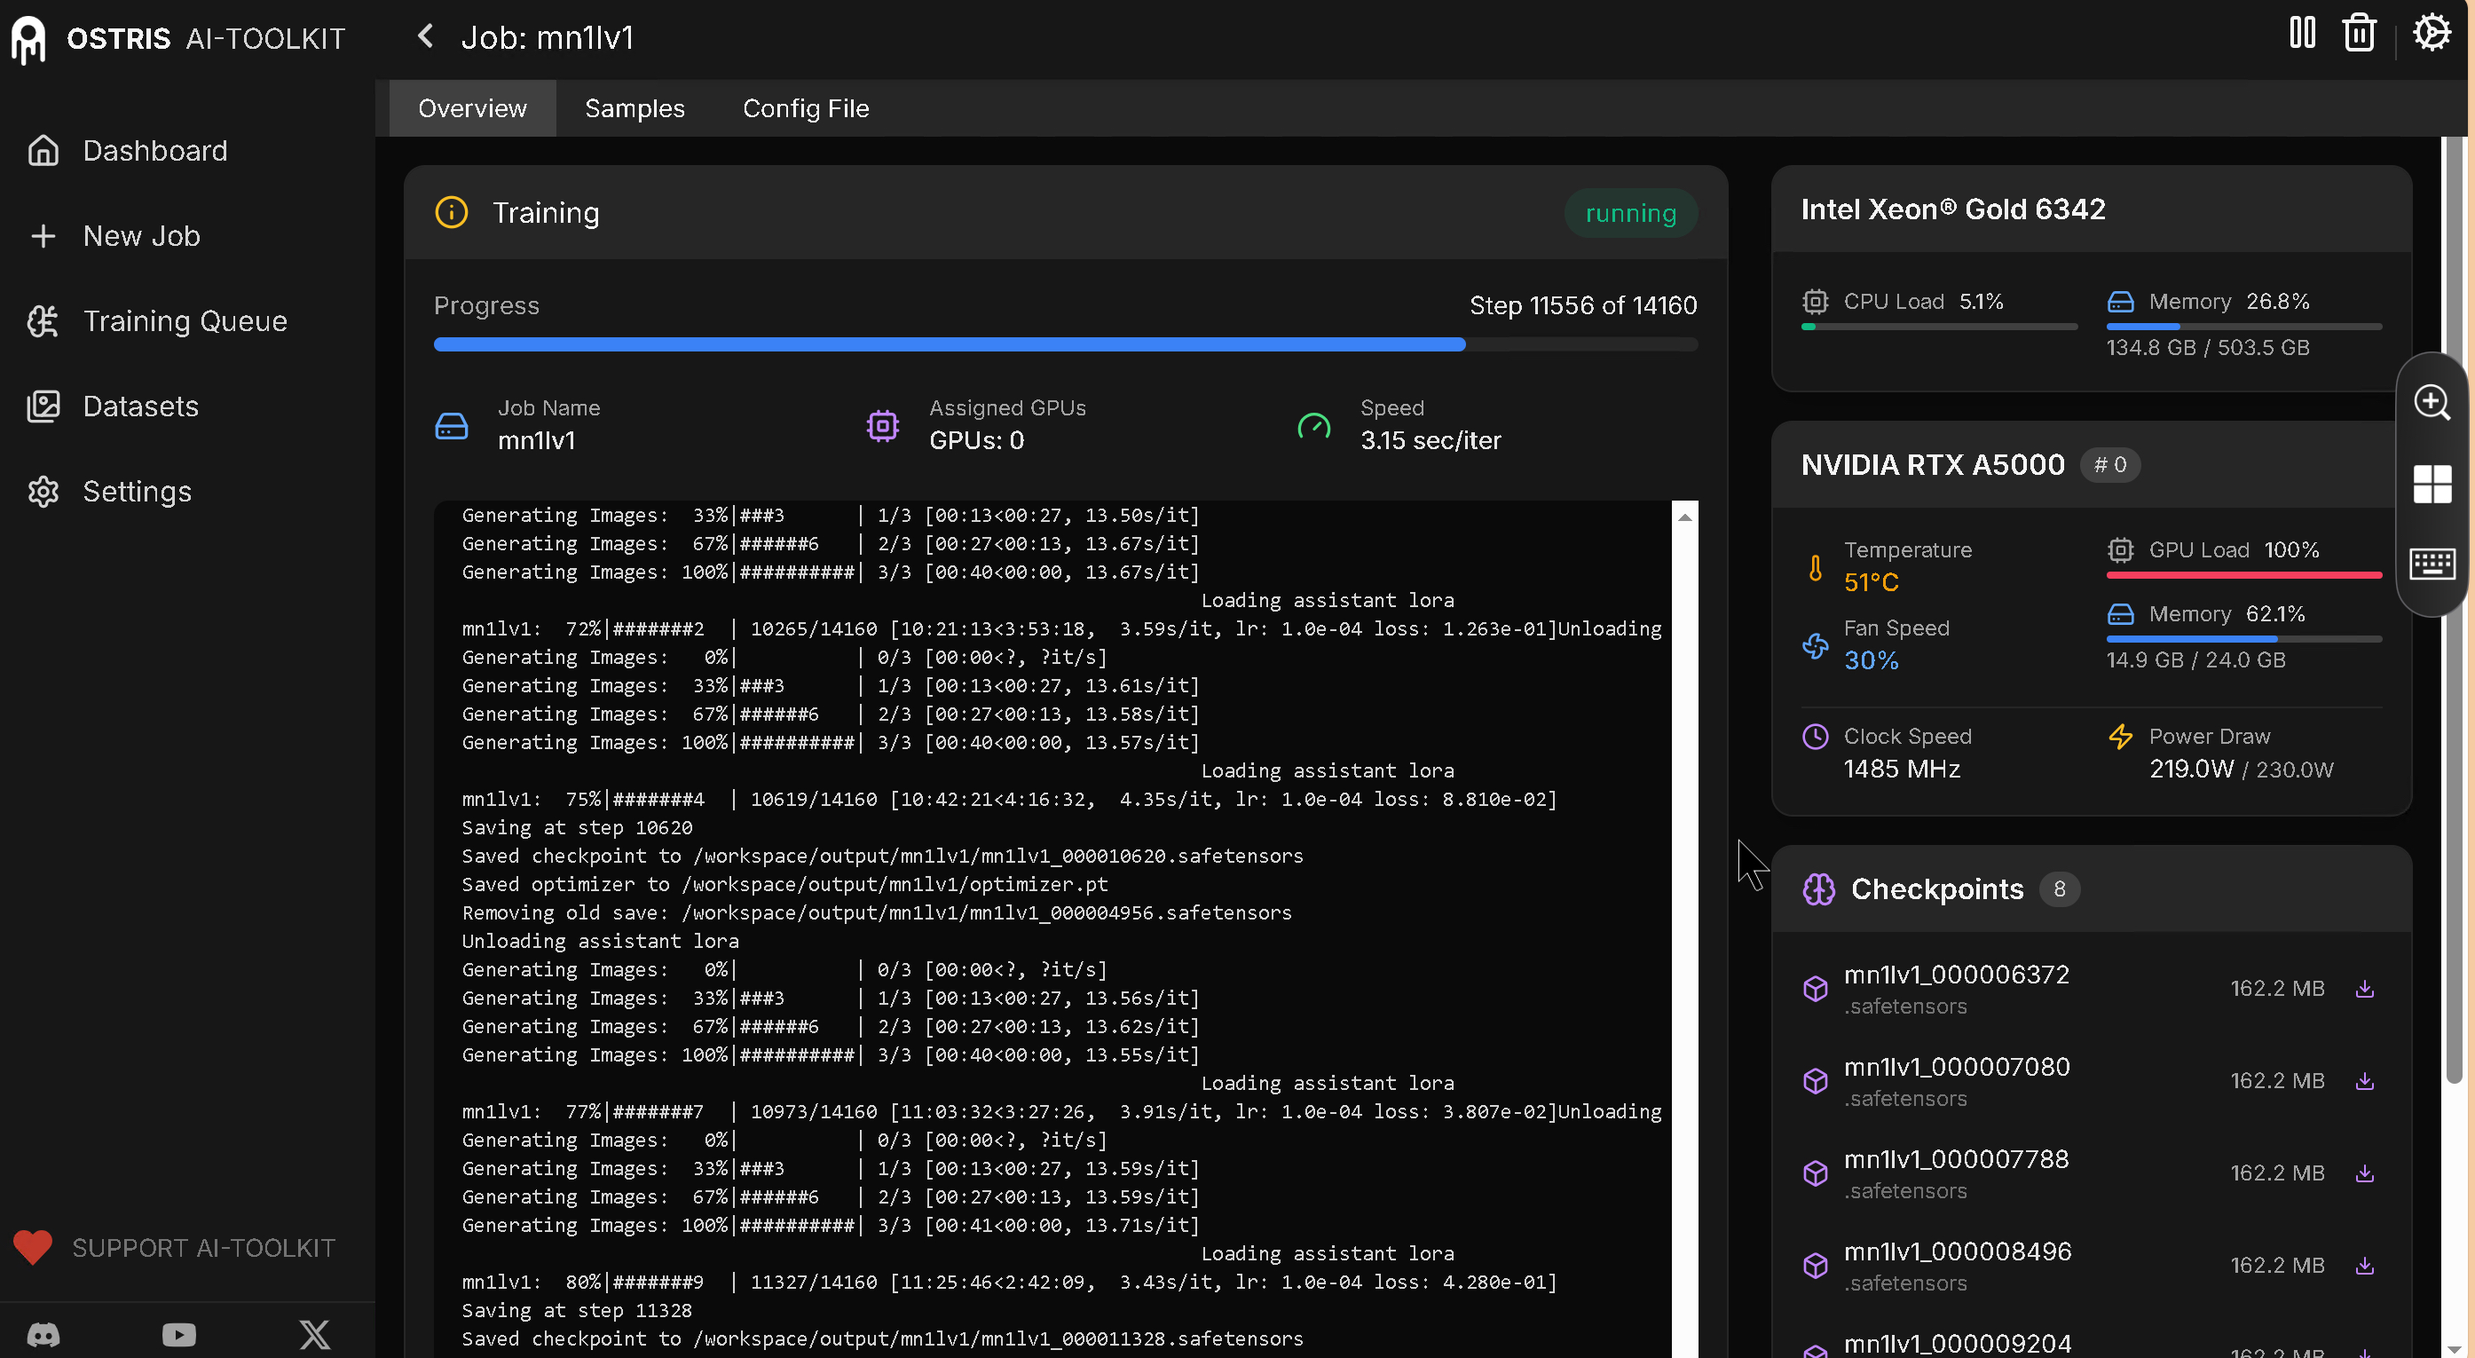
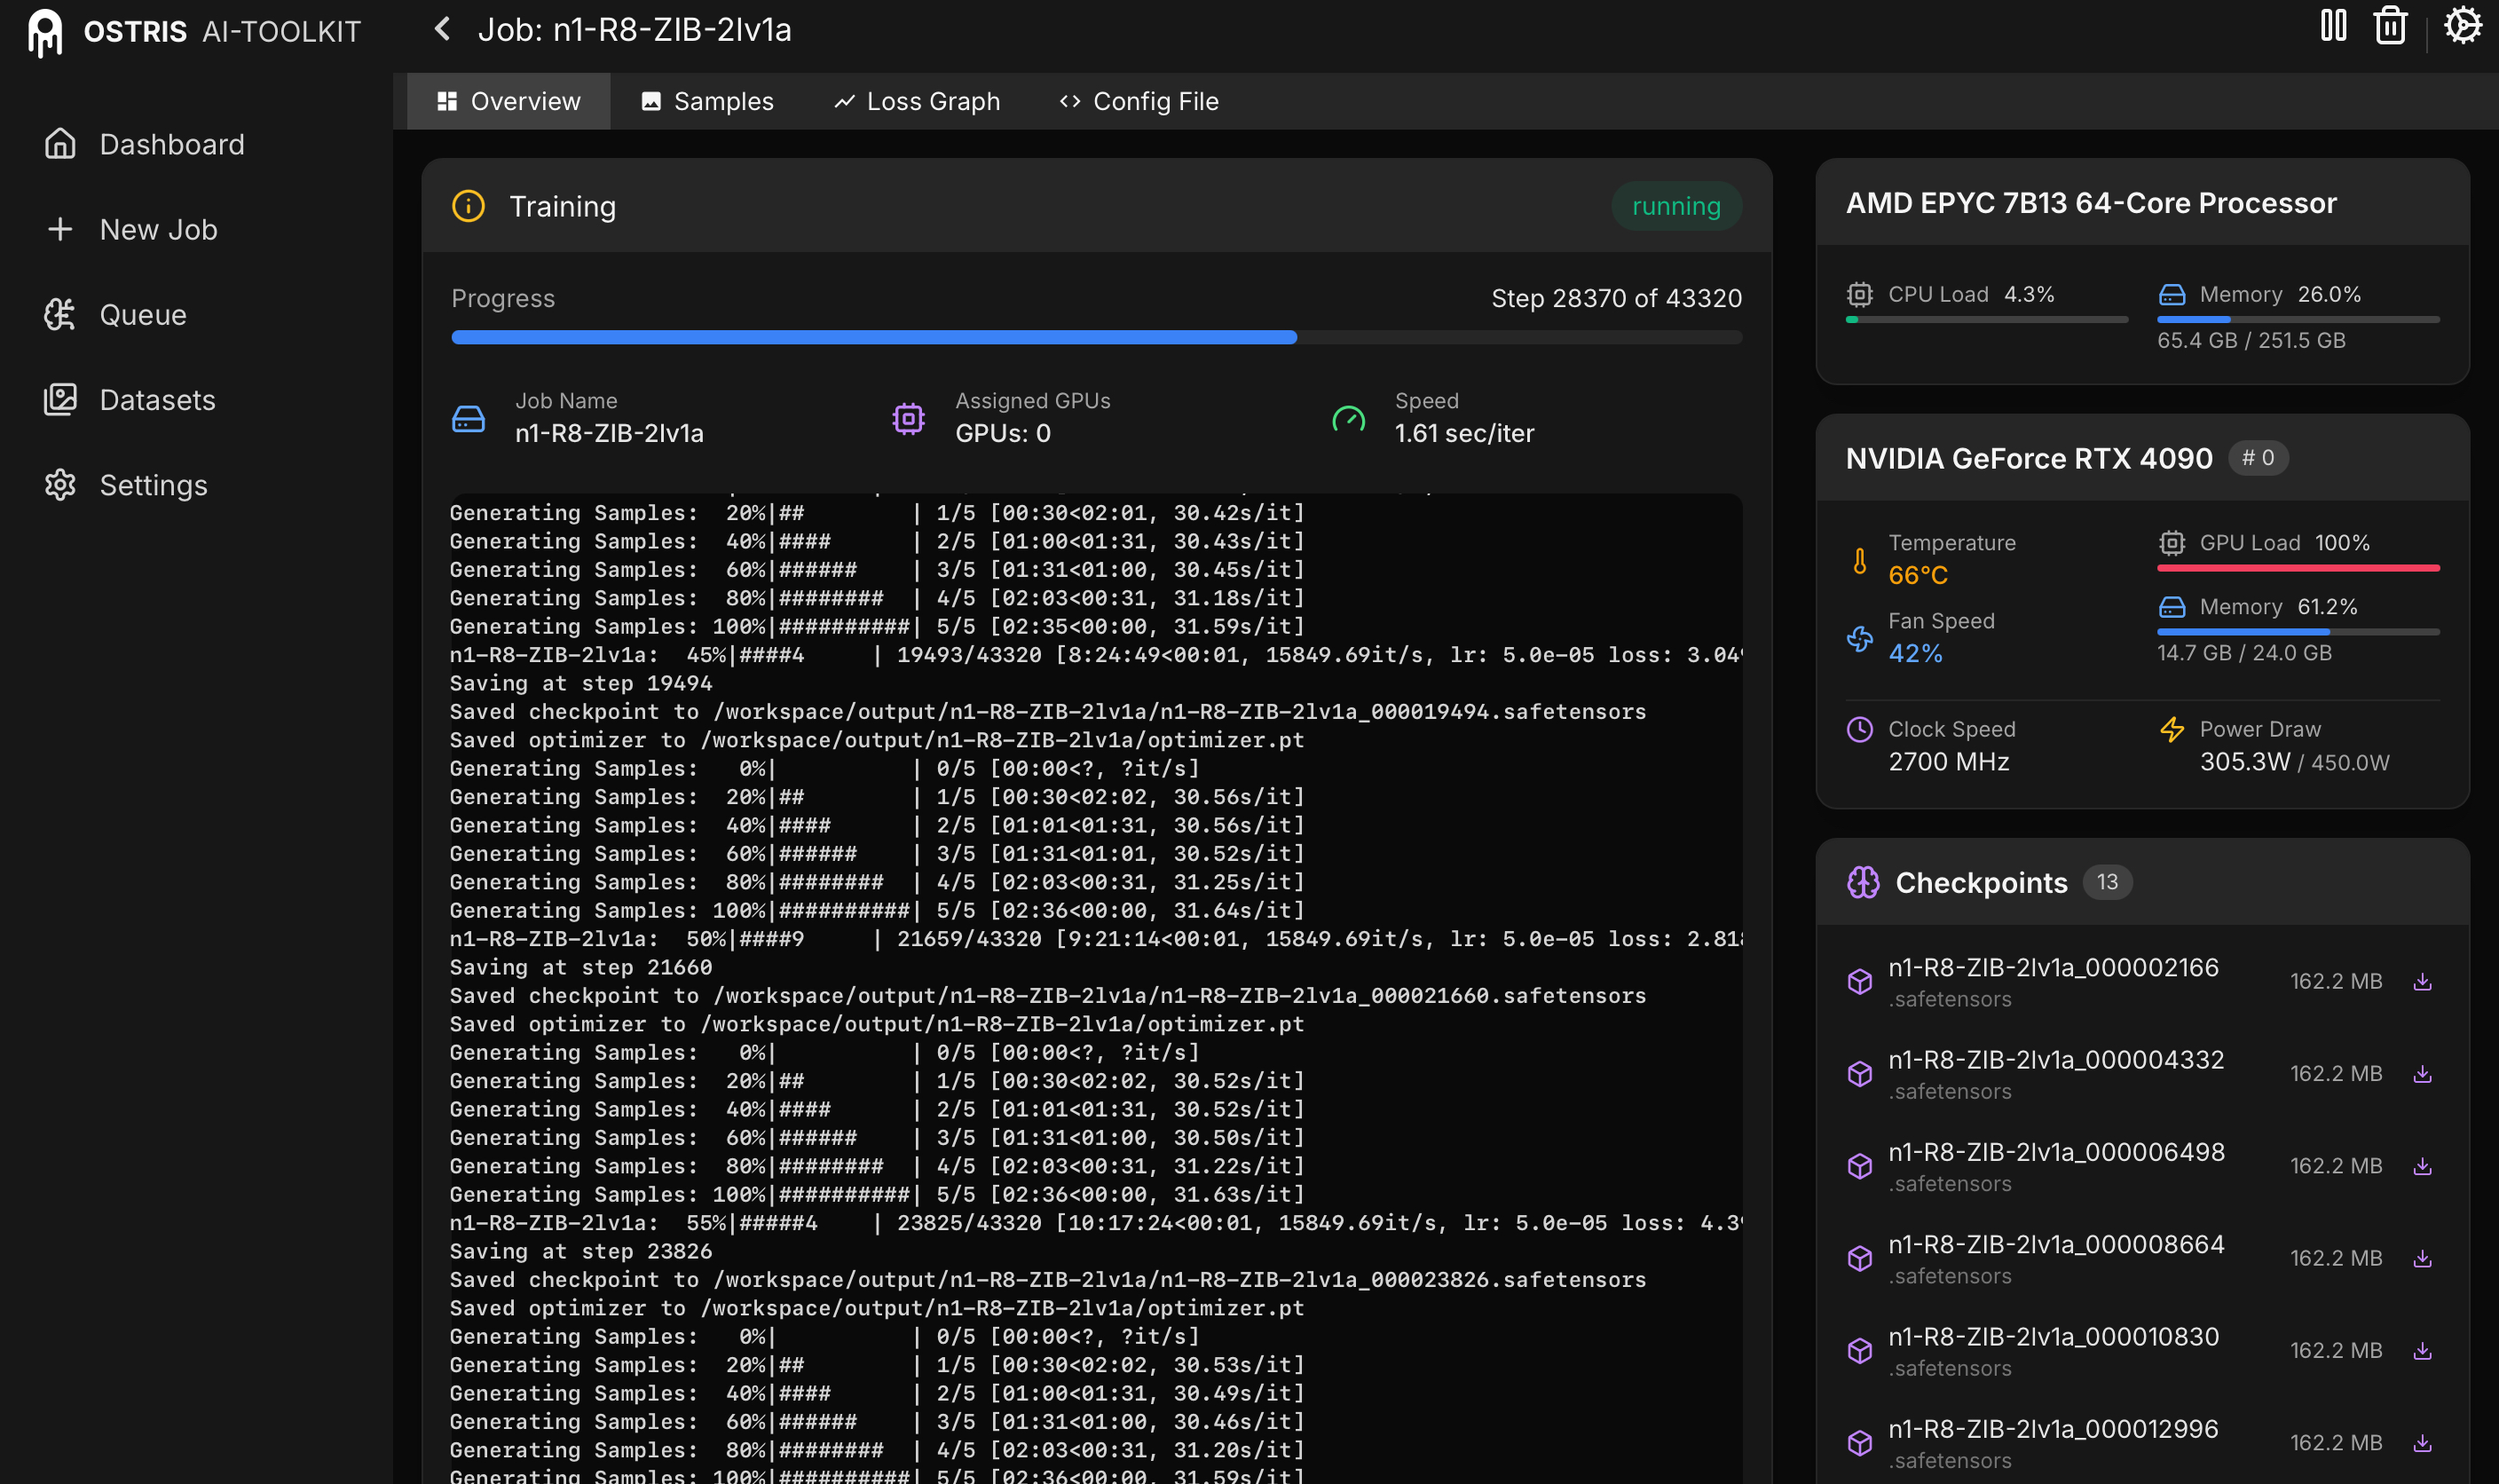
Updated documentation

diff --git a/documentation/README_docker_runpod.md b/documentation/README_docker_runpod.md
@@ -10,11 +10,13 @@ A streamlined setup for running **Ostris AI Toolkit** for training models and lo
   - **Hugging Face** token for model access.
   - **ai-toolkit UI** password
 
-### Hardware provisioning recommendation
+## Hardware provisioning recommendation
+
+### ZiB and Flux-Klein 9B
 
 - GPU: RTX A5000, RTX 4090.
-- Pod volume: 50Gb (models)
-- Workspace: 50 Gb (depending on datasets and output)
+- Pod volume: 40Gb  (model)
+- Workspace: 20 Gb  (dataset and output)
 
 ## Setup
 
@@ -26,6 +28,7 @@ A streamlined setup for running **Ostris AI Toolkit** for training models and lo
 | CUDA      | `12.8.x`             |
 | Triton    | `3.4.x`              |
 | CodeServer | Latest |
+| ai-toolkit   | Latest |
 
 ## Installed Attentions
 
@@ -45,7 +48,7 @@ A streamlined setup for running **Ostris AI Toolkit** for training models and lo
 
 ## Environment Variables  
 
-## **Authentication Tokens**  
+### **Authentication Tokens**  
 
 | Token        | Environment Variable |
 |--------------|----------------------|

diff --git a/README.md b/README.md
@@ -15,15 +15,15 @@ This pod downloads models as specified in the **environment variables** set in t
 Ensure that the required environment variables and secrets are correctly set before running the pod.
 See below for options.
 
-## Training Z-Image Turbo Lora on RunPod on RTX A5000
-
-### Console
-
-![runpod](images/runpod.jpg)
+## Training Z-Image Base Lora on RunPod on RTX 4090
 
 ### UI
 
 ![training](images/training.jpg)
+
+### Running on Runpod 
+
+![runpod](images/runpod.jpg)
 
 ## 📚 Documentation
 

diff --git a/docs/ai-toolkit_hardware.md b/docs/ai-toolkit_hardware.md
@@ -1,5 +1,7 @@
 # 💻 Hardware Requirements
 
+## ZiB and Flux-Klein 9B
+
 - GPU: RTX A5000, RTX 4090.
-- Pod volume: 50Gb (models)
-- Workspace: 50 Gb (depending on dataset and output)
+- Pod volume: 40Gb  (model)
+- Workspace: 20 Gb  (dataset and output)
